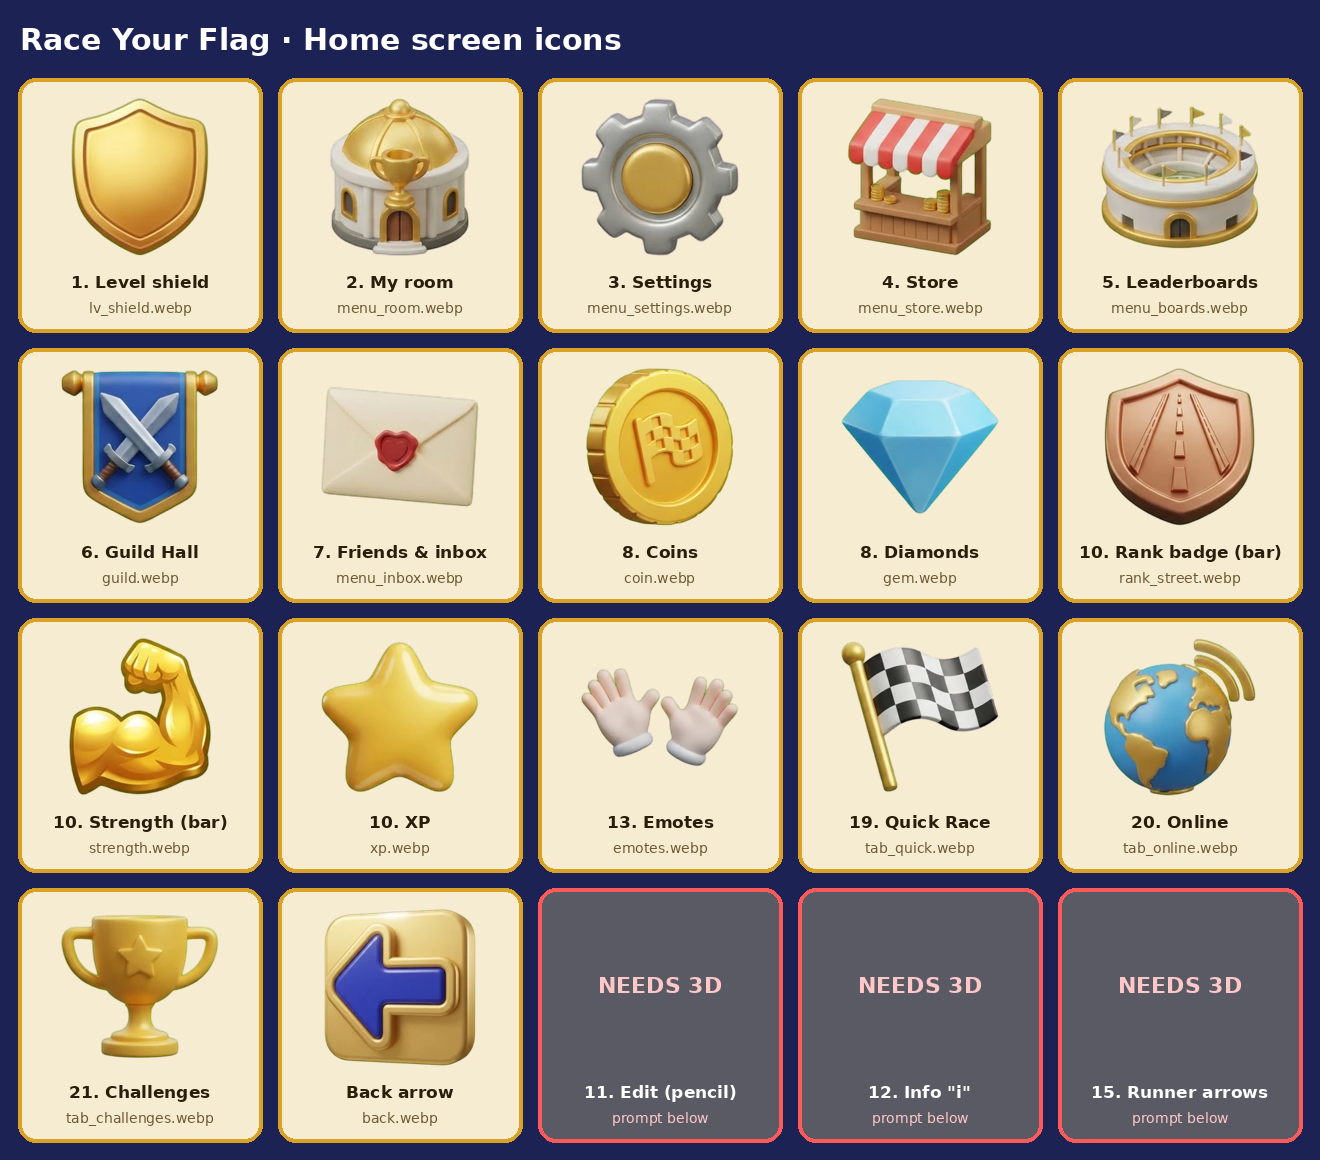
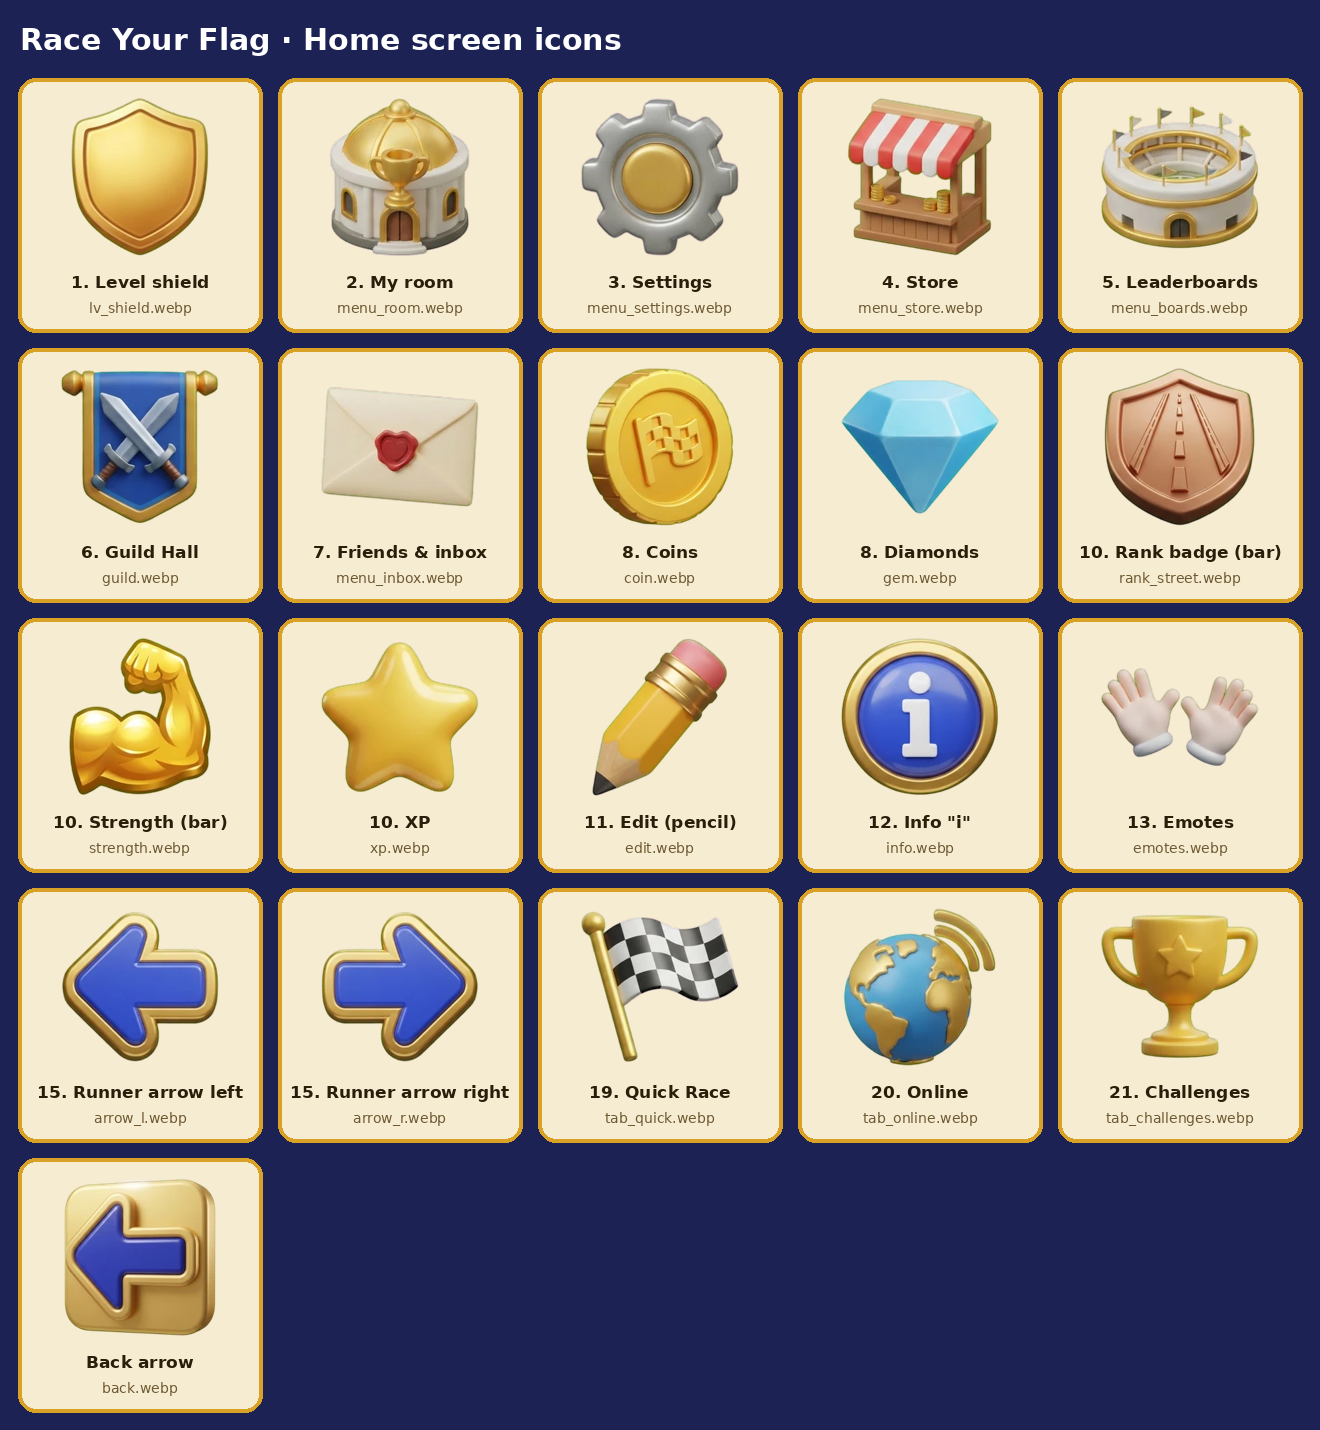
3D edit pencil, info button and runner arrows
The last plain symbols on the home screen now use 3D icons: the layout pencil, every
blue info button, and the runner arrows (left one mirrored). Updated icon sheet.

Claude-Session: https://claude.ai/code/session_01P2d23idmzn86QwCrrnwjqh

diff --git a/index.html b/index.html
@@ -1529,6 +1529,10 @@ html.zd-mode #touch .tgroup button{width:48px!important;height:48px!important}
 .store-head:has(.back-btn),.chat-top:has(.back-btn){justify-content:flex-start}.store-head:has(.back-btn)>h2,.chat-top:has(.back-btn)>h2{margin-right:auto}
 .store-head,.chat-top{display:flex;align-items:center;gap:10px}.store-head>.back-btn,.chat-top>.back-btn{margin-right:2px}
 .tp-x.back-btn{left:10px!important;right:auto!important;width:40px!important;height:40px!important}
+html #menu .ico3d-btn,html #menu .ico3d-btn:hover,html #menu .d3-stage .ico3d-btn,html body .ico3d-btn,html.cream body .ico3d-btn,html.cream.adv body .ico3d-btn{background-image:none!important;outline:0!important;background:none!important;border:0!important;box-shadow:none!important;padding:0!important;display:inline-grid;place-items:center}
+.ico3d-btn .ico3d{width:100%;height:100%;object-fit:contain;display:block;filter:drop-shadow(0 3px 4px rgba(0,0,0,.4));pointer-events:none}
+.ico3d-btn:active .ico3d{transform:scale(.9)}
+html #menu .ico3d-btn::before,html #menu .ico3d-btn::after{display:none!important}
 .f3d-pg{font-size:10.5px;color:var(--gold,#f5c542);min-height:1em;line-height:1}
 </style>
 
@@ -1547,8 +1551,8 @@ html.zd-mode #touch .tgroup button{width:48px!important;height:48px!important}
       <label class="field d3-name" for="nameInput"><span class="sr-only">Your name</span><input type="text" id="nameInput" maxlength="16" autocomplete="off"><span class="lv-badge" id="lvBadge" title="Your level. Earn XP by finishing races and hitting rivals."><b>Lv 1</b><span class="lv-bar"><i></i></span><small></small><em title="Strength from your room"></em></span></label>
       <section class="d3-stage" id="playPanel" aria-label="Race Desk">
         <div class="preview-wrap"><canvas id="preview" aria-label="3D preview of your runner"></canvas>
-          <button class="d3-arrow d3-l" id="pvLeft" aria-label="Previous runner">◀</button><span class="d3-rname" id="pvName" aria-live="polite"></span><button class="d3-arrow d3-r" id="pvRight" aria-label="Next runner">▶</button>
-          <button class="d3-round d3-edit" id="deskEdit" aria-label="Edit Race Desk layout">✏</button>
+          <button class="d3-arrow d3-l ico3d-btn" id="pvLeft" aria-label="Previous runner"><img class="ico3d" src="img/icons/arrow_l.webp" alt=""></button><span class="d3-rname" id="pvName" aria-live="polite"></span><button class="d3-arrow d3-r ico3d-btn" id="pvRight" aria-label="Next runner"><img class="ico3d" src="img/icons/arrow_r.webp" alt=""></button>
+          <button class="d3-round d3-edit ico3d-btn" id="deskEdit" aria-label="Edit Race Desk layout"><img class="ico3d" src="img/icons/edit.webp" alt=""></button>
         </div>
         <div class="emote-row d3-emotes" aria-label="Emotes"><button class="d3-emote-ic" id="emoteToggle" aria-expanded="false" aria-label="Emotes"><img class="ico" src="img/icons/emotes.webp" alt=""></button>
           <button class="chip-btn" data-emote="wave">Wave</button><button class="chip-btn" data-emote="flex">Flex</button><button class="chip-btn" data-emote="dance">Dance</button><button class="chip-btn" data-emote="point">Point</button>
@@ -3912,7 +3916,7 @@ function renderSettings(){
 }
 let settingsPaused=false;
 // ⓘ buttons: names and notes stay hidden until a page's ⓘ is tapped
-function infoBtn(host,scope,onToggle,cls,after){if(!host||!scope||host.querySelector(':scope>.info-btn'))return null;const b=document.createElement('button');b.type='button';b.className='info-btn'+(cls?' '+cls:'');b.textContent='i';
+function infoBtn(host,scope,onToggle,cls,after){if(!host||!scope||host.querySelector(':scope>.info-btn'))return null;const b=document.createElement('button');b.type='button';b.className='info-btn ico3d-btn'+(cls?' '+cls:'');b.innerHTML='<img class="ico3d" src="img/icons/info.webp" alt="">';if(!b.getAttribute('aria-label'))b.setAttribute('aria-label','Info');
   b.setAttribute('aria-label','Show info');b.setAttribute('aria-pressed','false');
   b.onclick=e=>{e.stopPropagation();const on=!scope.classList.contains('show-info');scope.classList.toggle('show-info',on);b.setAttribute('aria-pressed',on);if(onToggle)onToggle(on);};if(after)after.after(b);else host.appendChild(b);return b;}
 function setupInfo(){

diff --git a/3D-ITEMS.md b/3D-ITEMS.md
@@ -573,7 +573,9 @@ Background: one flat, solid pure green (#00FF00) filling the whole image, like a
 No words, letters or numbers.
 ```
 
-## Home screen leftovers (green screen) · to make
+## Home screen leftovers (green screen) · made
+
+Picture: `art/sheets/home-leftovers.jpg`. `arrow_l` is `arrow_r` mirrored.
 
 | Spot | Item | Replaces | File |
 |---|---|---|---|
